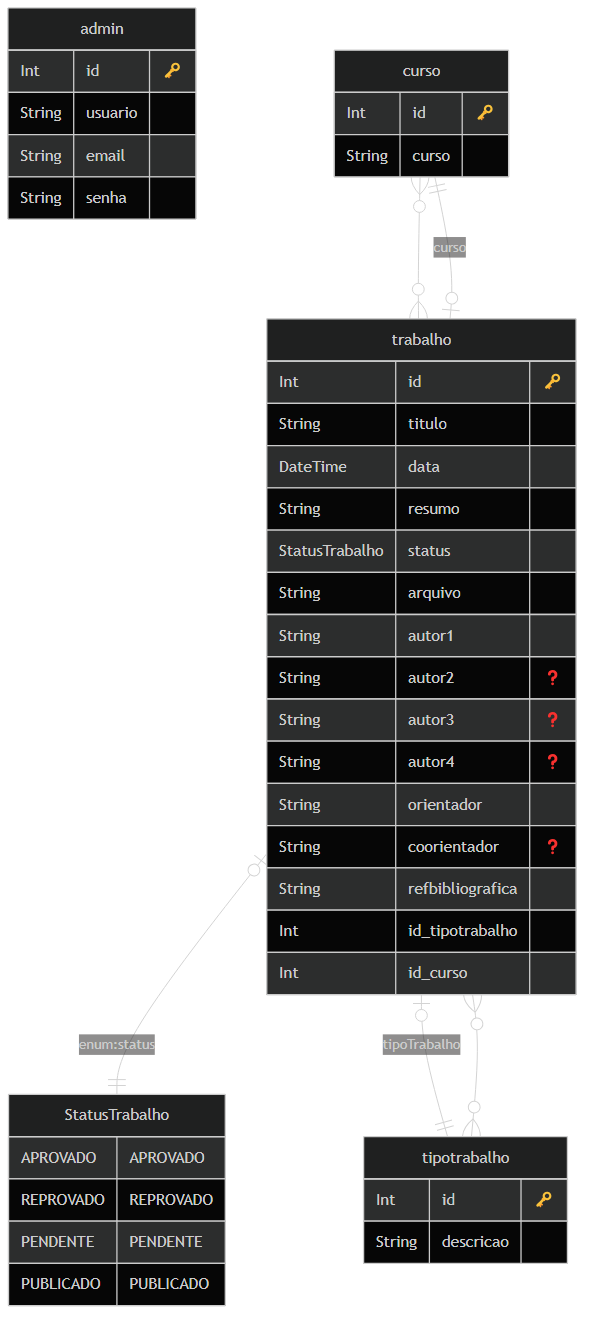
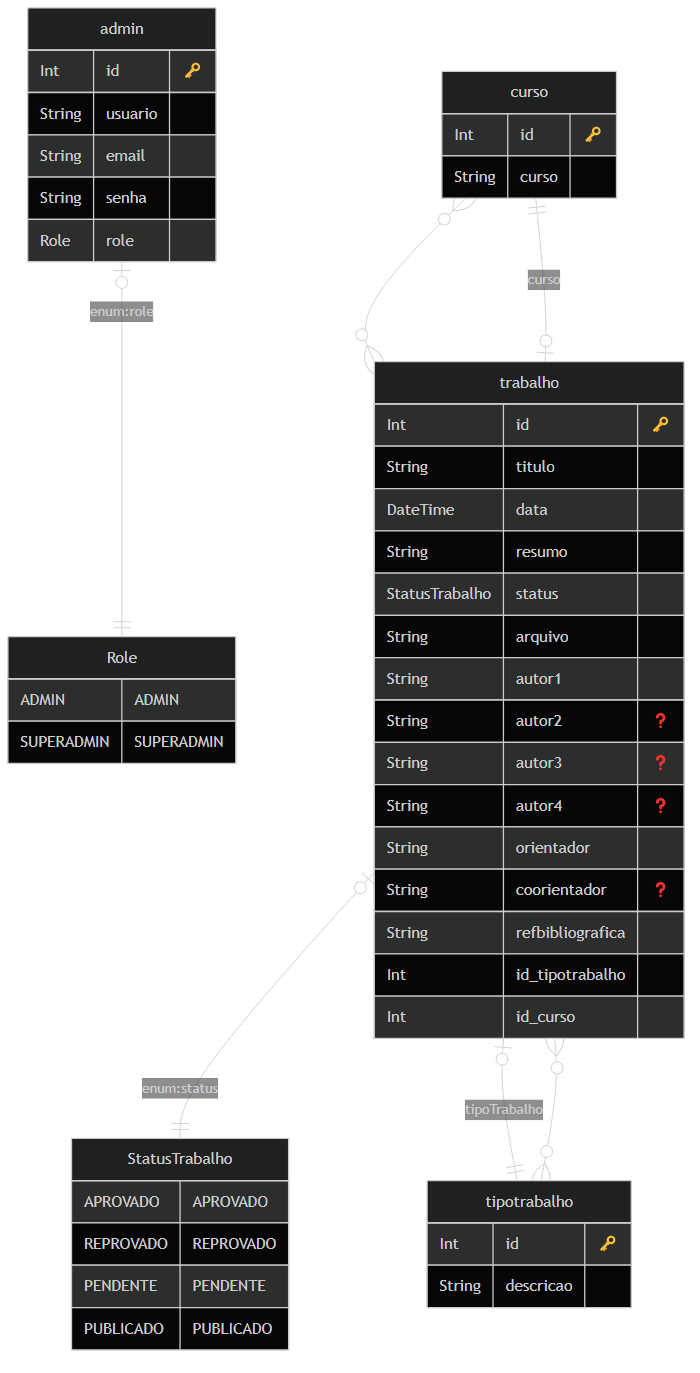
rotas seguras para verificação do papel do usuário

diff --git a/pages/admin/admins/esqueci-senha.vue b/pages/admin/admins/esqueci-senha.vue
@@ -1,4 +1,29 @@
 <template>
+    <div class="min-h-screen bg-gray-100 text-gray-800 font-sans flex flex-col">
+        <main class="flex-1 max-w-3xl mx-auto w-full p-6">
+            <UCard>
+                <template #header>
+                    <h2 class="text-xl font-semibold">Esqueci Minha Senha</h2>
+                </template>
+
+                <UForm :schema="schema" :state="form" @submit="onSubmit">
+                    <div>
+                        <UFormField label="Usuário" name="usuario" required>
+                            <UInput v-model="form.usuario" placeholder="Nome de usuário" />
+                        </UFormField>
+
+                        <UFormField label="E-mail" name="email" required>
+                            <UInput v-model="form.email" type="email" placeholder="seuemail@exemplo.com" />
+                        </UFormField>
+
+                        <div class="flex justify-end mt-6">
+                            <UButton type="submit" :loading="loading">Enviar solicitação</UButton>
+                        </div>
+                    </div>
+                </UForm>
+            </UCard>
+        </main>
+    </div>
 </template>
 <script>
 </script>

diff --git a/server/middleware/auth.ts b/server/middleware/auth.ts
@@ -1,0 +1,32 @@
+import { verificarToken } from '../lib/auth'
+
+export default defineEventHandler(async (event) => {
+    const rotasPublicas = [
+        '/api/auth/login',
+    ]
+
+    if (rotasPublicas.includes(event.path))
+        return
+
+    if (event.path.startsWith('/api/')) {
+        const token = getCookie(event, 'token')
+
+        if (!token) {
+            throw createError({
+                statusCode: 401,
+                statusMessage: 'Não autorizado: Token não fornecido.',
+            })
+        }
+
+        const admin = verificarToken(token)
+
+        if (!admin) {
+            throw createError({
+                statusCode: 401,
+                statusMessage: 'Não autorizado: Token inválido.',
+            })
+        }
+
+        event.context.auth = { id: admin.id, email: admin.email }
+    }
+})

diff --git a/plugins/auth.ts b/plugins/auth.ts
@@ -1,0 +1,25 @@
+// plugins/auth.ts
+
+// 1. Importe a interface que você acabou de exportar
+import type { User } from '~/composables/useAuth'
+
+export default defineNuxtPlugin(async () => {
+  const { user } = useAuth()
+
+  if (user.value)
+    return
+
+  try {
+    // 2. AQUI ESTÁ A CORREÇÃO: Adicionamos <User> para tipar o retorno
+    const userData = await $fetch<User>('/api/auth/me', {
+      retry: 0,
+    })
+    
+    // Agora o TypeScript sabe que 'userData' é do tipo 'User' e o erro desaparece
+    if (userData)
+      user.value = userData
+  }
+  catch (error) {
+    user.value = null
+  }
+})

diff --git a/server/api/auth/me.get.ts b/server/api/auth/me.get.ts
@@ -1,0 +1,16 @@
+import { findAdminById } from '~/server/lib/usuarios'
+
+export default defineEventHandler(async (event) => {
+    const { id } = event.context.auth
+    const admin = await findAdminById(id)
+
+    if (!admin) {
+        throw createError({
+            statusCode: 404,
+            statusMessage: 'Admin não encontrado.',
+        })
+    }
+
+    const { senha, ...adminSemSenha } = admin
+    return adminSemSenha
+})

diff --git a/middleware/auth.ts b/middleware/auth.ts
@@ -1,0 +1,12 @@
+import { useAuth } from "~/composables/useAuth"
+
+export default defineNuxtRouteMiddleware((to) => {
+    const { user } = useAuth()
+
+    if (!user.value && to.path.startsWith('/admin')) {
+        if (to.path === '/admin/login')
+            return
+        
+        return navigateTo('/admin/login')
+    }
+})

diff --git a/composables/useAuth.ts b/composables/useAuth.ts
@@ -1,0 +1,13 @@
+export interface User {
+    id: number;
+    email: string;
+    usuario: string;
+    role: 'ADMIN' | 'SUPER_ADMIN';
+}
+
+export const useAuth = () => {
+    const user = useState<User | null>('user', () => null)
+    return {
+        user,
+    }
+}

diff --git a/server/api/auth/logout.post.ts b/server/api/auth/logout.post.ts
@@ -1,0 +1,9 @@
+export default defineEventHandler((event) => {
+    deleteCookie(event, 'token', {
+        httpOnly: true,
+        path: '/',
+        sameSite: 'strict',
+    })
+
+    return { message: 'Logout realizado com sucesso!' }
+})

diff --git a/server/api/auth/login.post.ts b/server/api/auth/login.post.ts
@@ -35,5 +35,6 @@ export default defineEventHandler(async (event) => {
         id: admin.id,
         email: admin.email,
         usuario: admin.usuario,
+        role: admin.role,
     }
 })
